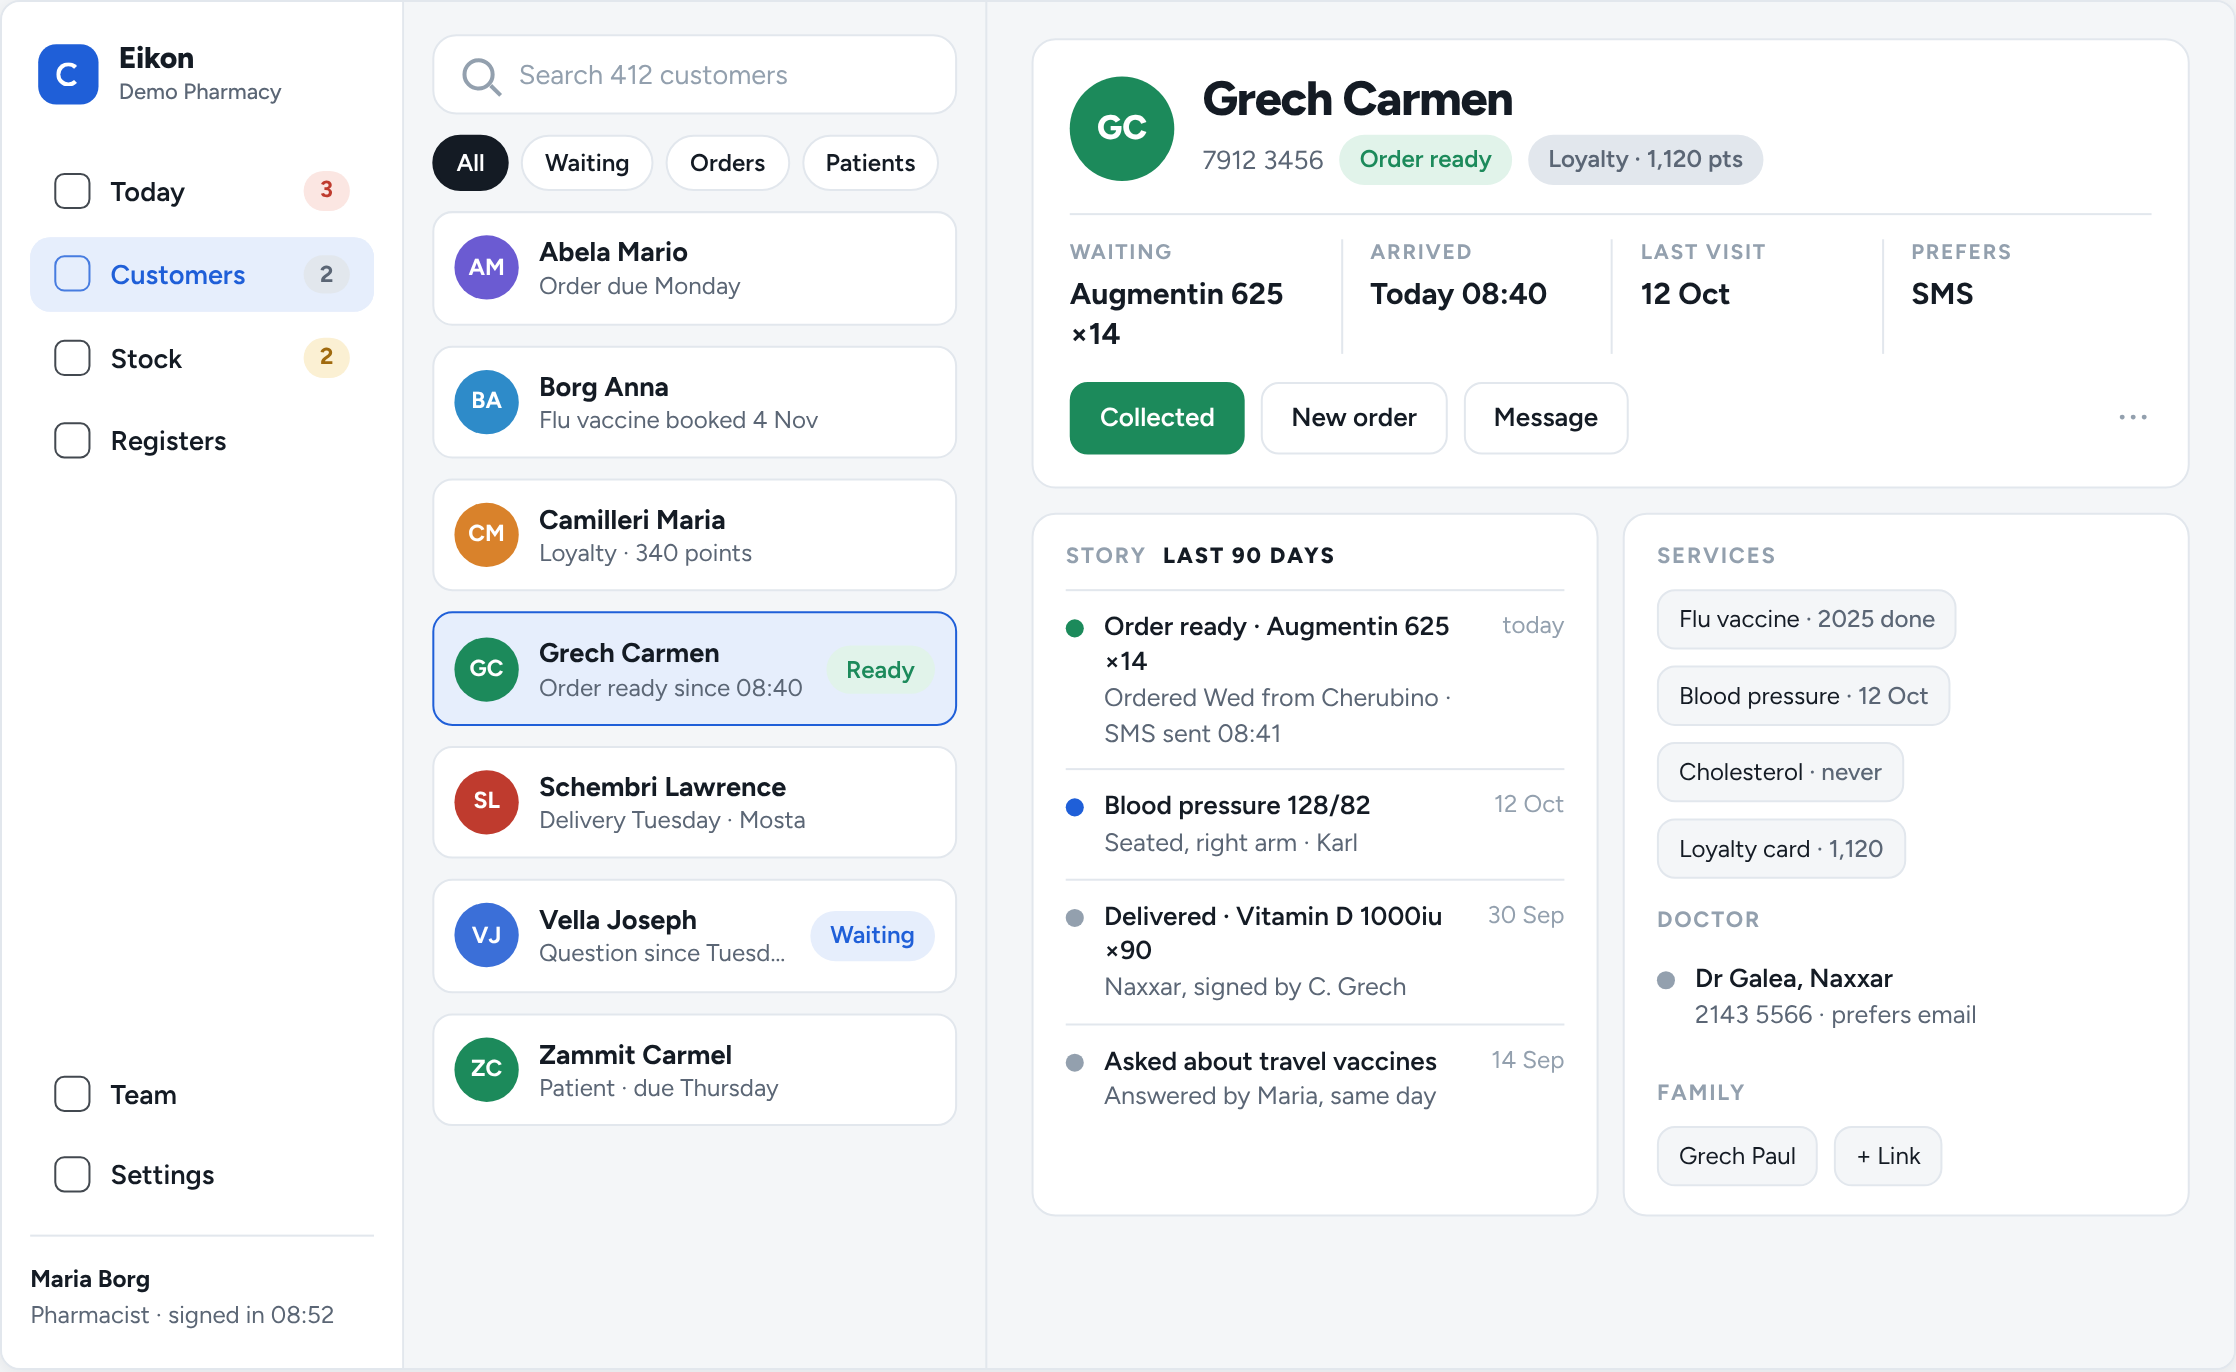
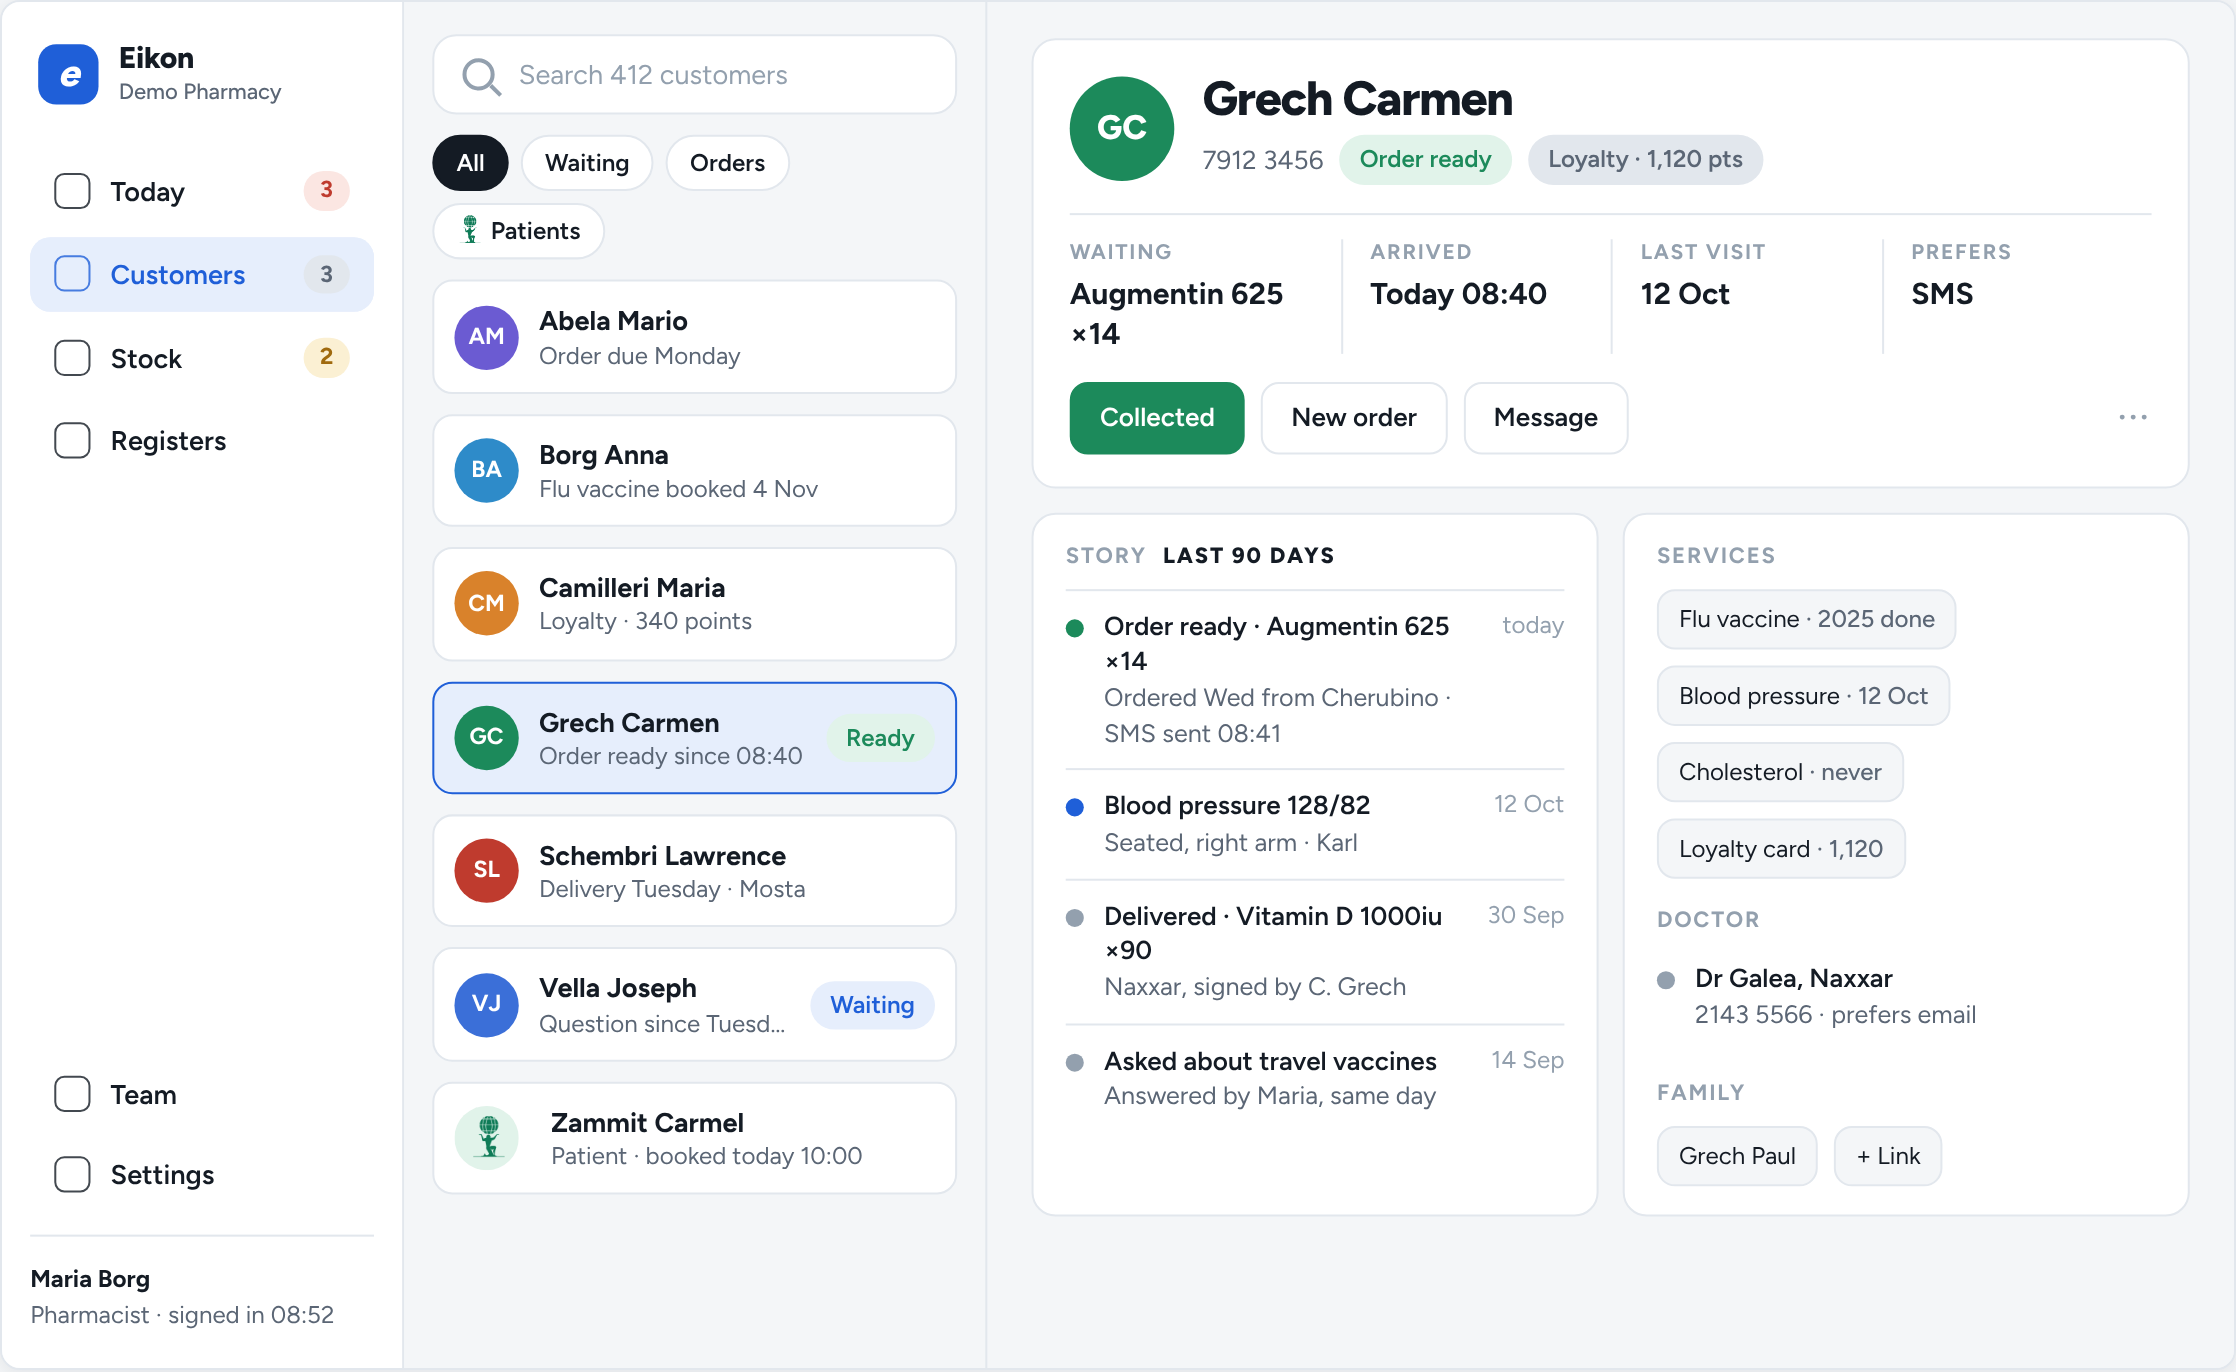
Design review: add the Master Universal mark to the mockups and the bridge
The green Master Universal mark now identifies patient rows on Today and
in Customers, the Patients chip, a Master Universal tile on Today, and a
diagram of two Patient Manager PCs writing one shared patient book.

Claude-Session: https://claude.ai/code/session_01JbKdMDu3M6RtqDrSh99v7s

Changed region(s): [[0.1852, 0.1531, 0.432, 0.8571], [0.3703, 0.0918, 0.4012, 0.1224]]

diff --git a/design/eikon-reimagined/Design review.html b/design/eikon-reimagined/Design review.html
@@ -72,7 +72,24 @@ figure img{display:block;width:100%;height:auto;border-radius:10px;border:1px so
 .rail{background:var(--mock-rail);border-right:1px solid var(--hair);padding:18px 14px;display:flex;flex-direction:column;gap:4px}
 .rail .brand{display:flex;align-items:center;gap:10px;margin:0 4px 18px}
 .rail .brand i{width:30px;height:30px;border-radius:9px;background:var(--accent);display:inline-block;position:relative}
-.rail .brand i::after{content:"";position:absolute;inset:9px;border:2.5px solid #fff;border-radius:50%;border-right-color:transparent}
+.rail .brand i::after{content:"e";position:absolute;inset:0;display:grid;place-items:center;color:#fff;font-weight:800;font-size:19px;line-height:1}
+.mu{display:inline-block;width:16px;height:20px;background:url(img/mu-logo.png) center/contain no-repeat;vertical-align:-4px;margin-right:6px}
+.row .av.mu,.crow .av.mu{background:var(--good-soft);background-image:url(img/mu-logo.png);background-size:auto 70%;background-repeat:no-repeat;background-position:center}
+.chip .mu{width:12px;height:15px;margin-right:5px;vertical-align:-3px}
+.bridge{display:grid;grid-template-columns:1fr auto 1fr;gap:18px;align-items:center;background:var(--surface);border:1px solid var(--hair);border-radius:14px;padding:22px 24px;max-width:900px;margin-top:22px}
+.bridge .pc{display:flex;flex-direction:column;gap:10px}
+.bridge .box{display:flex;align-items:center;gap:12px;border:1px solid var(--hair);border-radius:10px;padding:10px 14px;font-size:14px;color:var(--ink2)}
+.bridge .box b{color:var(--ink);font-weight:700;display:block;font-size:14px}
+.bridge .box .mu{width:26px;height:32px;margin:0}
+.bridge .mid{text-align:center;color:var(--ink3);font-size:12px;font-weight:700;letter-spacing:.08em;text-transform:uppercase}
+.bridge .mid i{display:block;width:2px;height:28px;background:var(--hair);margin:6px auto}
+.bridge .book{border:1px solid var(--accent);background:var(--accent-soft);border-radius:12px;padding:16px 18px;text-align:center}
+.bridge .book b{display:block;font-size:17px;font-weight:800;letter-spacing:-.01em}
+.bridge .book span{font-size:13px;color:var(--ink2)}
+.bridge .book .marks{display:flex;justify-content:center;gap:14px;align-items:center;margin-bottom:8px}
+.bridge .book .marks i{width:34px;height:34px;border-radius:10px;background:var(--accent);display:grid;place-items:center;color:#fff;font-style:normal;font-weight:800;font-size:21px}
+.bridge .book .marks .mu{width:30px;height:38px;margin:0}
+@media (max-width:700px){.bridge{grid-template-columns:1fr}.bridge .mid i{display:none}}
 .rail .brand b{font-size:15px;font-weight:800;letter-spacing:-.01em}
 .rail .brand small{display:block;font-size:11px;color:var(--ink2);font-weight:500}
 .nav{display:flex;align-items:center;gap:10px;padding:9px 12px;border-radius:10px;font-weight:600;font-size:13.5px;color:var(--ink)}
@@ -267,7 +284,7 @@ figure img{display:block;width:100%;height:auto;border-radius:10px;border:1px so
       <aside class="rail">
         <div class="brand"><i></i><div><b>Eikon</b><small>Demo Pharmacy</small></div></div>
         <div class="nav on"><span class="ic"></span>Today<span class="cnt red">3</span></div>
-        <div class="nav"><span class="ic"></span>Customers<span class="cnt">2</span></div>
+        <div class="nav"><span class="ic"></span>Customers<span class="cnt">3</span></div>
         <div class="nav"><span class="ic"></span>Stock<span class="cnt amb">2</span></div>
         <div class="nav"><span class="ic"></span>Registers</div>
         <div class="spacer"></div>
@@ -278,8 +295,8 @@ figure img{display:block;width:100%;height:auto;border-radius:10px;border:1px so
       <div class="main">
         <div class="search"><span class="glass"></span>What do you need? A customer, a product, a register…<span class="hint">Enter opens it</span></div>
         <div class="date"><b>Friday 31 October</b><span>09:12 · doors open 09:30</span></div>
-        <div class="head"><h1>3 things before the doors open<span>, 2 customers waiting.</span></h1>
-          <div class="legend"><span><i style="background:var(--bad)"></i>1 register overdue</span><span><i style="background:var(--warn)"></i>2 to fill this morning</span><span><i style="background:var(--good)"></i>1 order ready</span><span><i style="background:var(--accent)"></i>1 question since Tuesday</span></div>
+        <div class="head"><h1>3 things before the doors open<span>, 3 customers waiting.</span></h1>
+          <div class="legend"><span><i style="background:var(--bad)"></i>1 register overdue</span><span><i style="background:var(--warn)"></i>2 to fill</span><span><i style="background:var(--good)"></i>1 order ready</span><span><i style="background:var(--accent)"></i>1 question</span><span><span class="mu"></span>1 patient booked</span></div>
         </div>
         <div class="col">
           <div class="lab">Before opening <b>3</b></div>
@@ -289,15 +306,17 @@ figure img{display:block;width:100%;height:auto;border-radius:10px;border:1px so
             <div class="row amb"><div class="av sq" style="background:#6B5BD2">RP</div><div class="t"><b>Daily register · responsible pharmacist</b><span>Maria Borg, from 09:00 · same as yesterday</span></div><span class="pill amb">Not signed</span><span class="btn p">Confirm</span></div>
             <div class="row red"><div class="av sq" style="background:#D9822B">✓</div><div class="t"><b>Cleaning · dispensary and fridge</b><span class="u">Last done <b>14 days ago</b> by Karl · due weekly</span></div><span class="pill red">Overdue</span><span class="btn">Done now</span></div>
           </div>
-          <div class="lab">Customers waiting <b>2</b><a>All customers ›</a></div>
+          <div class="lab">Customers waiting <b>3</b><a>All customers ›</a></div>
           <div class="list">
             <div class="row grn"><div class="av" style="background:#1C8A5B">GC</div><div class="t"><b>Grech Carmen</b><span>Order ready · Augmentin 625 ×14 · arrived 08:40 · SMS sent ✓</span></div><span class="pill grn">Ready</span><span class="btn">Collected</span></div>
             <div class="row blu"><div class="av" style="background:#3B6FD8">VJ</div><div class="t"><b>Vella Joseph</b><span>Asked on Tuesday · "do you stock the Omron M3 monitor?"</span></div><span class="pill blu">Waiting 3 days</span><span class="btn">Reply</span></div>
+            <div class="row grn"><div class="av mu"></div><div class="t"><b>Zammit Carmel</b><span>Patient · booked 10:00 · "bring the INR booklet" · week 2</span></div><span class="pill grn">Booked today</span><span class="btn g">Prepared</span></div>
           </div>
         </div>
         <div class="side">
           <div class="tile"><div class="lab">Takings</div><div class="big">€0<span>so far</span></div><p>Float <b>€500</b> counted by Maria at 08:55. One button closes the day at 19:00.</p></div>
           <div class="tile"><div class="lab">Stock</div><div class="big">2<span>items short</span></div><p><b>Enalapril 20mg</b> is out; Cherubino order sent 08:10, due Monday. <b>Metformin 850</b> has 6 days left.</p></div>
+          <div class="tile"><div class="lab"><span class="mu"></span>Master Universal</div><p style="margin-top:0"><b>Records saving</b> · locked · 2 PCs in step · last posting 28 Sep 16:00.</p></div>
           <div class="tile"><div class="lab">Team today</div><div class="mini"><i class="on">Maria</i><i class="now">Karl 13:00</i><i>Locum 17:00</i></div><p>Handover from last night: <b>"Courier at 16:00, box for Dr Galea."</b></p></div>
         </div>
       </div>
@@ -329,7 +348,7 @@ figure img{display:block;width:100%;height:auto;border-radius:10px;border:1px so
       <aside class="rail">
         <div class="brand"><i></i><div><b>Eikon</b><small>Demo Pharmacy</small></div></div>
         <div class="nav"><span class="ic"></span>Today<span class="cnt red">3</span></div>
-        <div class="nav on"><span class="ic"></span>Customers<span class="cnt">2</span></div>
+        <div class="nav on"><span class="ic"></span>Customers<span class="cnt">3</span></div>
         <div class="nav"><span class="ic"></span>Stock<span class="cnt amb">2</span></div>
         <div class="nav"><span class="ic"></span>Registers</div>
         <div class="spacer"></div>
@@ -340,14 +359,14 @@ figure img{display:block;width:100%;height:auto;border-radius:10px;border:1px so
       <div class="clist">
         <div class="search" style="height:40px;font-size:13.5px">
           <span class="glass"></span>Search 412 customers</div>
-        <div class="chips"><span class="chip on">All</span><span class="chip">Waiting</span><span class="chip">Orders</span><span class="chip">Patients</span></div>
+        <div class="chips"><span class="chip on">All</span><span class="chip">Waiting</span><span class="chip">Orders</span><span class="chip"><span class="mu"></span>Patients</span></div>
         <div class="crow"><div class="av" style="background:#6B5BD2">AM</div><div class="t"><b>Abela Mario</b><span>Order due Monday</span></div></div>
         <div class="crow"><div class="av" style="background:#2E8BC9">BA</div><div class="t"><b>Borg Anna</b><span>Flu vaccine booked 4 Nov</span></div></div>
         <div class="crow"><div class="av" style="background:#D9822B">CM</div><div class="t"><b>Camilleri Maria</b><span>Loyalty · 340 points</span></div></div>
         <div class="crow sel"><div class="av" style="background:#1C8A5B">GC</div><div class="t"><b>Grech Carmen</b><span>Order ready since 08:40</span></div><span class="pill grn">Ready</span></div>
         <div class="crow"><div class="av" style="background:#BF3B2E">SL</div><div class="t"><b>Schembri Lawrence</b><span>Delivery Tuesday · Mosta</span></div></div>
         <div class="crow"><div class="av" style="background:#3B6FD8">VJ</div><div class="t"><b>Vella Joseph</b><span>Question since Tuesday</span></div><span class="pill blu">Waiting</span></div>
-        <div class="crow"><div class="av" style="background:#1C8A5B">ZC</div><div class="t"><b>Zammit Carmel</b><span>Patient · due Thursday</span></div></div>
+        <div class="crow"><div class="av mu"></div><div class="t"><b>Zammit Carmel</b><span>Patient · booked today 10:00</span></div></div>
       </div>
       <div class="detail">
         <div class="hero">
@@ -401,7 +420,7 @@ figure img{display:block;width:100%;height:auto;border-radius:10px;border:1px so
         <aside class="rail">
           <div class="brand"><i></i><div><b>Eikon</b><small>Demo Pharmacy</small></div></div>
           <div class="nav"><span class="ic"></span>Today<span class="cnt red">3</span></div>
-          <div class="nav"><span class="ic"></span>Customers<span class="cnt">2</span></div>
+          <div class="nav"><span class="ic"></span>Customers<span class="cnt">3</span></div>
           <div class="nav"><span class="ic"></span>Stock<span class="cnt amb">2</span></div>
           <div class="nav on"><span class="ic"></span>Registers</div>
           <div class="spacer"></div>
@@ -517,6 +536,14 @@ figure img{display:block;width:100%;height:auto;border-radius:10px;border:1px so
       <li><b>Names and bookings travel, nothing else.</b> What the patient book needs, under the pharmacy's own account, and only for pharmacies that switch it on.</li>
       <li><b>Never remove.</b> Same rule as the licences: the cloud book only ever adds. A delete is an event that hides, not a row that vanishes.</li>
     </ul></div>
+  </div>
+  <div class="bridge">
+    <div class="pc">
+      <div class="box"><span class="mu"></span><div><b>PC 1 · Patient Manager</b>writes events: opened, booked, ready, posted</div></div>
+      <div class="box"><span class="mu"></span><div><b>PC 2 · Patient Manager</b>same program, same licence, reads the book back</div></div>
+    </div>
+    <div class="mid">events<i></i>ten seconds<i></i>book</div>
+    <div class="book"><div class="marks"><i>e</i><span class="mu"></span></div><b>One patient book per licence</b><span>Eikon keeps it, every PC and every browser reads it. The Master Universal mark means the row came from the counter.</span></div>
   </div>
 </section>
 

diff --git a/design/eikon-reimagined/audit/TEMPLATE.md b/design/eikon-reimagined/audit/TEMPLATE.md
@@ -1,0 +1,18 @@
+# Audit template (one section per module, in this exact shape)
+
+## <Module title>  (`modules.<file>.js`, id `<id>`, order <n>, visible to: <roles / org restriction / admin-only parts>)
+**Purpose.** One sentence.
+
+**Functions.** A numbered, exhaustive list. One line each, in the form:
+`n. <What the user can do> — where: <tab / button / modal / context menu / keyboard>; API: <METHOD /path>; extras: <print / CSV / xlsx / email / SMS / WhatsApp / PDF / label>`
+Include: every view/tab, filter, sort, search, create/edit/delete, status change, lock/unlock, bulk action, import, export, print, settings, admin-only action, keyboard shortcut, auto-refresh/polling, quick-entry entry points from other modules, and anything triggered automatically (timers, on-load side effects).
+
+**Data & state.** Endpoints and tables touched; localStorage keys; offline queues; polling intervals; cross-module calls (functions on window.EIKON used by or exposed to other modules).
+
+**Permissions & scoping.** Admin-only, superuser-only, org/location scoping, role checks done client-side only (flag these).
+
+**Edge cases & risks (found in code, cite line numbers).** Concurrency (two PCs editing the same record), date/timezone, month boundaries, offline/network failure, validation gaps, destructive actions without confirm, silent catch blocks that hide errors, client-side-only permission checks, N+1 fetches, large payloads, polling cost, anything that could lose or duplicate data.
+
+**Speed notes.** Approximate payload per load, number of requests, sequential awaits that could run in parallel, re-render cost.
+
+**Must not be lost.** 3 to 8 bullets: the functions a pharmacist or inspector would miss if the module were rebuilt and these were dropped (legal, money, safety).
